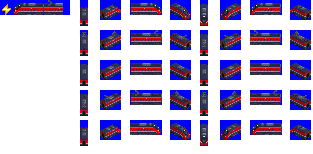
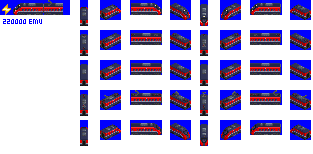
Fix #444: Wrong graphic of ITX-Maum's pantograph and lights

diff --git a/docs/changelog.md b/docs/changelog.md
@@ -1,6 +1,11 @@
 2.6.0
 -----
+
+
+2.6.0-RC2
+-----
  * 수정: ITX-마음 가격 및 유지비 수정
+ * 수정: ITX-마음 팬터그래프, 미등 관련 그래픽 오류 [#444]
  * 변경: NDC, DEC, EEC 도색 이름 변경 [#443]
 
 2.6.0-RC1
